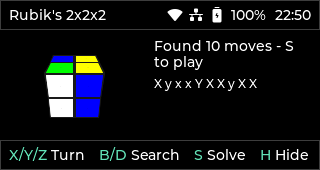
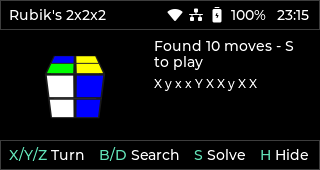
Antialiased sub-pixel cube rasterizer
Replace lv_draw_triangle (vertices snapped to whole pixels) with a custom
polygon rasterizer (8 vertical samples, exact horizontal coverage) drawn as
an ARGB image. Regenerate store screenshots.

Changed region(s): [[0.125, 0.3235, 0.3125, 0.7059], [0.8438, 0.0588, 0.9688, 0.1176], [0.3125, 0.5294, 0.3438, 0.5588]]

diff --git a/src/view/widgets/cube_view.cpp b/src/view/widgets/cube_view.cpp
@@ -5,13 +5,20 @@
 #include "cube_view.h"
 
 #include "bindings.h"
+#include "src/misc/cache/instance/lv_image_cache.h"
 
 #include <algorithm>
 #include <array>
 #include <cmath>
+#include <vector>
 
 namespace view::widgets {
 namespace {
+
+struct Pt {
+    float x;
+    float y;
+};
 
 constexpr int kInnerColorIndex = 24;
 
@@ -87,8 +94,8 @@ int sticker_index(int axis, int sign, int sx, int sy, int sz) {
 
 struct Face {
     float depth;
-    std::array<lv_point_precise_t, 4> body;
-    std::array<lv_point_precise_t, 4> sticker;
+    std::array<Pt, 4> body;
+    std::array<Pt, 4> sticker;
     int color_index;
     bool outer;
 };
@@ -102,26 +109,129 @@ int turning_axis(char move) {
     }
 }
 
-// The quad is split in 4 overlapping triangles so antialiasing leaves no seam on the diagonals.
-void fill_quad(lv_layer_t* layer, const std::array<lv_point_precise_t, 4>& quad, lv_color_t color) {
-    static constexpr int kTriangles[4][3] = {{0, 1, 2}, {0, 2, 3}, {0, 1, 3}, {1, 2, 3}};
+// lv_draw_triangle() snaps the vertices to whole pixels, which makes the cube edges crooked,
+// so the convex quads are rasterized here with sub-pixel vertices into an ARGB8888 buffer.
+// Coverage is exact horizontally and sampled kSubScans times per pixel row vertically.
+constexpr int kSubScans = 8;
 
-    lv_draw_triangle_dsc_t dsc;
-    lv_draw_triangle_dsc_init(&dsc);
-    dsc.color = color;
-    dsc.opa = LV_OPA_COVER;
-    for (const auto& triangle : kTriangles) {
-        for (int i = 0; i < 3; ++i) {
-            dsc.p[i] = quad[triangle[i]];
+class Raster {
+public:
+    explicit Raster(lv_draw_buf_t* buf)
+        : buf_(buf),
+          width_(static_cast<int>(buf->header.w)),
+          height_(static_cast<int>(buf->header.h)),
+          cover_(static_cast<size_t>(width_) + 2),
+          span_(static_cast<size_t>(width_) + 2) {}
+
+    void fill(const std::array<Pt, 4>& quad, lv_color_t color) {
+        float min_y = quad[0].y;
+        float max_y = quad[0].y;
+        for (const Pt& p : quad) {
+            min_y = std::min(min_y, p.y);
+            max_y = std::max(max_y, p.y);
         }
-        lv_draw_triangle(layer, &dsc);
+        const int first = std::max(0, static_cast<int>(std::floor(min_y)));
+        const int last = std::min(height_ - 1, static_cast<int>(std::floor(max_y)));
+
+        for (int row = first; row <= last; ++row) {
+            if (accumulate_row(quad, row)) {
+                blend_row(row, color);
+            }
+        }
     }
-}
+
+private:
+    // Fills cover_ with the partially covered pixels and span_ with the +/- steps of the fully covered run.
+    bool accumulate_row(const std::array<Pt, 4>& quad, int row) {
+        constexpr float kWeight = 1.0f / kSubScans;
+        std::fill(cover_.begin(), cover_.end(), 0.0f);
+        std::fill(span_.begin(), span_.end(), 0.0f);
+        bool touched = false;
+
+        for (int s = 0; s < kSubScans; ++s) {
+            const float y = static_cast<float>(row) + (static_cast<float>(s) + 0.5f) / kSubScans;
+            float lo = INFINITY;
+            float hi = -INFINITY;
+            for (int i = 0; i < 4; ++i) {
+                const Pt& a = quad[i];
+                const Pt& b = quad[(i + 1) % 4];
+                if ((a.y <= y) == (b.y <= y)) {
+                    continue;
+                }
+                const float x = a.x + (y - a.y) / (b.y - a.y) * (b.x - a.x);
+                lo = std::min(lo, x);
+                hi = std::max(hi, x);
+            }
+            lo = std::max(lo, 0.0f);
+            hi = std::min(hi, static_cast<float>(width_));
+            if (!(hi > lo)) {
+                continue;
+            }
+
+            touched = true;
+            const int il = static_cast<int>(lo);
+            const int ir = static_cast<int>(hi);
+            if (il == ir) {
+                cover_[il] += (hi - lo) * kWeight;
+                continue;
+            }
+            cover_[il] += (static_cast<float>(il + 1) - lo) * kWeight;
+            cover_[ir] += (hi - static_cast<float>(ir)) * kWeight;
+            if (ir > il + 1) {
+                span_[il + 1] += kWeight;
+                span_[ir] -= kWeight;
+            }
+        }
+        return touched;
+    }
+
+    void blend_row(int row, lv_color_t color) {
+        auto* px = reinterpret_cast<lv_color32_t*>(static_cast<uint8_t*>(buf_->data) +
+                                                   static_cast<size_t>(row) * buf_->header.stride);
+        float run = 0.0f;
+        for (int x = 0; x < width_; ++x) {
+            run += span_[x];
+            const float c = cover_[x] + run;
+            if (c < 0.004f) {
+                continue;
+            }
+            if (c >= 0.996f) {
+                px[x].blue = color.blue;
+                px[x].green = color.green;
+                px[x].red = color.red;
+                px[x].alpha = 255;
+                continue;
+            }
+            const float dst_weight = (static_cast<float>(px[x].alpha) / 255.0f) * (1.0f - c);
+            const float out_alpha = c + dst_weight;
+            const auto mix = [&](uint8_t src, uint8_t dst) {
+                return static_cast<uint8_t>((static_cast<float>(src) * c + static_cast<float>(dst) * dst_weight) /
+                                                out_alpha + 0.5f);
+            };
+            px[x].blue = mix(color.blue, px[x].blue);
+            px[x].green = mix(color.green, px[x].green);
+            px[x].red = mix(color.red, px[x].red);
+            px[x].alpha = static_cast<uint8_t>(out_alpha * 255.0f + 0.5f);
+        }
+    }
+
+    lv_draw_buf_t* buf_;
+    int width_;
+    int height_;
+    std::vector<float> cover_;
+    std::vector<float> span_;
+};
 
 } // namespace
 
 CubeView::CubeView(lv_obj_t* parent, viewmodel::BaseViewModel& view_model)
     : BaseWidgets(parent), view_model_(view_model) {}
+
+CubeView::~CubeView() {
+    if (canvas_) {
+        lv_draw_buf_destroy(canvas_);
+    }
+}
 
 void CubeView::build() {
     if (core_obj_) {
@@ -138,8 +248,25 @@ void CubeView::build() {
 void CubeView::draw(lv_layer_t* layer) {
     lv_area_t area;
     lv_obj_get_coords(core_obj_, &area);
-    const float center_x = static_cast<float>(area.x1) + static_cast<float>(lv_area_get_width(&area)) / 2.0f;
-    const float center_y = static_cast<float>(area.y1) + static_cast<float>(lv_area_get_height(&area)) / 2.0f;
+    const int width = lv_area_get_width(&area);
+    const int height = lv_area_get_height(&area);
+    if (width <= 0 || height <= 0) {
+        return;
+    }
+    if (!canvas_ || static_cast<int>(canvas_->header.w) != width || static_cast<int>(canvas_->header.h) != height) {
+        if (canvas_) {
+            lv_draw_buf_destroy(canvas_);
+        }
+        canvas_ = lv_draw_buf_create(static_cast<uint32_t>(width), static_cast<uint32_t>(height),
+                                     LV_COLOR_FORMAT_ARGB8888, LV_STRIDE_AUTO);
+        if (!canvas_) {
+            return;
+        }
+    }
+    lv_draw_buf_clear(canvas_, nullptr);
+
+    const float center_x = static_cast<float>(width) / 2.0f;
+    const float center_y = static_cast<float>(height) / 2.0f;
 
     const auto& stickers = view_model_.cube().stickers();
     const char turning = view_model_.turning_move();
@@ -164,8 +291,7 @@ void CubeView::draw(lv_layer_t* layer) {
     };
     const auto project = [&](Vec3 p) {
         const float depth = std::max(-p.z, 0.1f);
-        return lv_point_precise_t{static_cast<lv_value_precise_t>(center_x + kFocalLength * p.x / depth),
-                                  static_cast<lv_value_precise_t>(center_y - kFocalLength * p.y / depth)};
+        return Pt{center_x + kFocalLength * p.x / depth, center_y - kFocalLength * p.y / depth};
     };
 
     std::array<Face, 48> faces;
@@ -226,16 +352,24 @@ void CubeView::draw(lv_layer_t* layer) {
     std::sort(faces.begin(), faces.begin() + static_cast<std::ptrdiff_t>(face_count),
               [](const Face& a, const Face& b) { return a.depth < b.depth; });
 
+    Raster raster(canvas_);
     for (size_t i = 0; i < face_count; ++i) {
         const Face& face = faces[i];
         if (face.outer) {
-            fill_quad(layer, face.body, lv_color_hex(kBodyColor));
-            fill_quad(layer, face.sticker, sticker_color(face.color_index));
+            raster.fill(face.body, lv_color_hex(kBodyColor));
+            raster.fill(face.sticker, sticker_color(face.color_index));
         }
         else {
-            fill_quad(layer, face.body, sticker_color(kInnerColorIndex));
+            raster.fill(face.body, sticker_color(kInnerColorIndex));
         }
     }
+
+    // The buffer is rewritten on every draw, so drop any decoded copy cached for it.
+    lv_image_cache_drop(canvas_);
+    lv_draw_image_dsc_t image;
+    lv_draw_image_dsc_init(&image);
+    image.src = canvas_;
+    lv_draw_image(layer, &image, &area);
 }
 
 void CubeView::draw_event_cb(lv_event_t* event) {

diff --git a/src/view/widgets/cube_view.h b/src/view/widgets/cube_view.h
@@ -10,10 +10,11 @@
 namespace view::widgets {
 
 // Software 3D renderer for the 2x2x2 cube. Replaces the OpenGL drawCube() of 3d/main.c:
-// same stickers, colors, layer turn animation and camera, drawn with LVGL triangles.
+// same stickers, colors, layer turn animation and camera, rasterized with an antialiased polygon fill.
 class CubeView : public BaseWidgets {
 public:
     CubeView(lv_obj_t* parent, viewmodel::BaseViewModel& view_model);
+    ~CubeView() override;
 
     void build() override;
 
@@ -24,6 +25,7 @@ private:
     static void revision_observer_cb(lv_observer_t* observer, lv_subject_t* subject);
 
     viewmodel::BaseViewModel& view_model_;
+    lv_draw_buf_t* canvas_{nullptr};
 };
 
 } // namespace view::widgets
